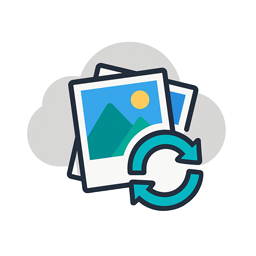
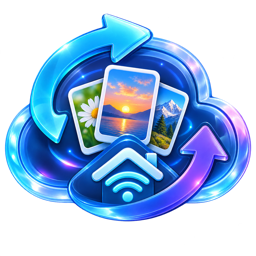
Install new Home Assistant app branding

diff --git a/icloud-shared-album-sync/CHANGELOG.md b/icloud-shared-album-sync/CHANGELOG.md
@@ -1,5 +1,10 @@
 # Changelog
 
+## 1.1.1
+
+- Installed the new iCloud Shared Album Sync artwork in Home Assistant's required app icon and logo locations.
+- Bumped the app version so repository and browser caches refresh the new branding.
+
 ## 1.1.0
 
 - Replaced the raw albums YAML textbox with a repeatable album editor.
